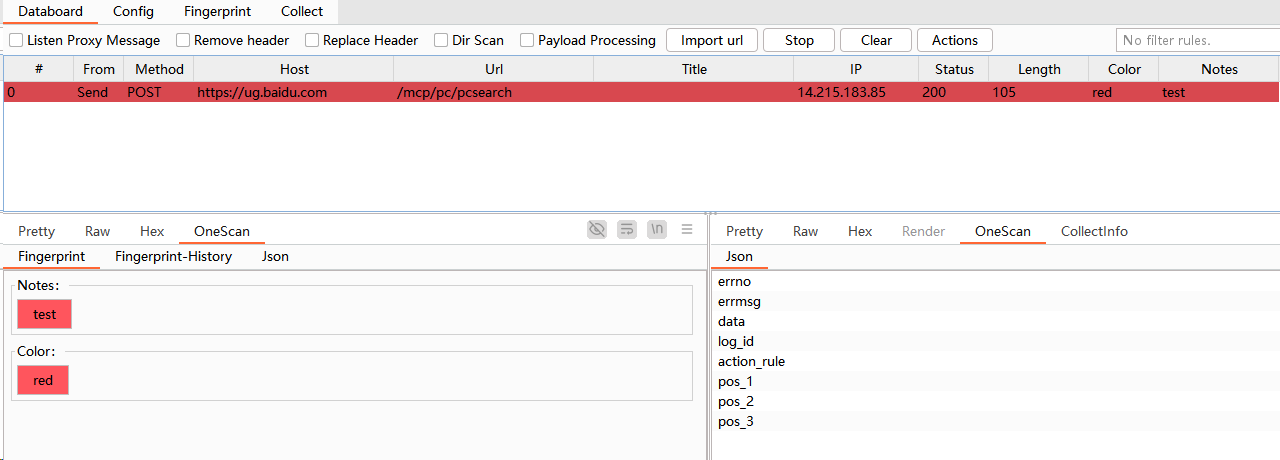
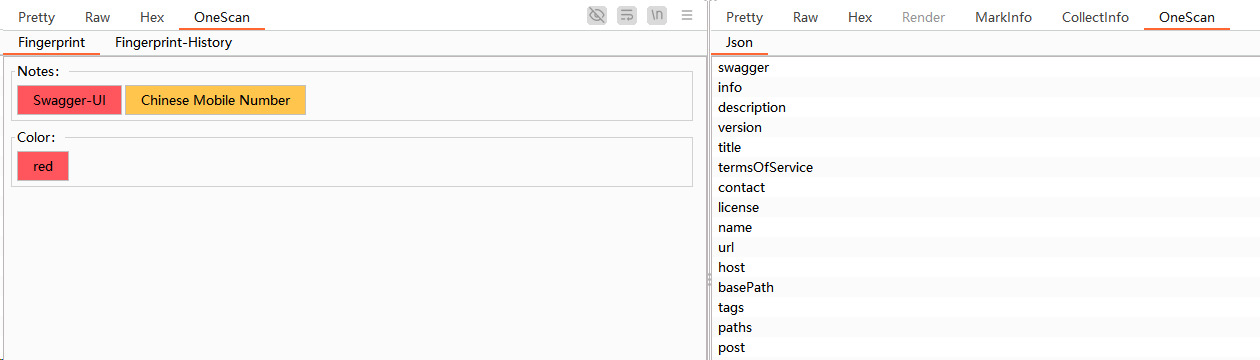
更新项目说明文档，更新插件截图

Changed region(s): [[0.0, 0.0, 1.0, 1.0]]

diff --git a/README.md b/README.md
@@ -56,7 +56,7 @@ Extensions -> Installed -> Add -> Select File -> Next
 
 ![](imgs/install_success.png)
 
-插件配置文件默认存放路径如下（优先检测当前插件 JAR 包所在目录下是否存在 `OneScan` 目录，如果存在，将使用该目录作为工作目录；否则，使用如下路径作为工作目录）：
+插件配置文件默认存放路径如下（优先检测当前插件 `jar` 包所在目录下是否存在 `OneScan` 目录，如果存在，将使用该目录作为工作目录；否则，使用如下路径作为工作目录）：
 
 ```text
 linux、macOS：
@@ -80,9 +80,13 @@ C:\Users\<用户名>\.config\OneScan\
 
 ### 辅助面板
 
-提取请求和响应包中 **JSON** 格式的字段，插件 `1.0.0` 版本新增 `Fingerprint` 指纹信息展示
+提取请求和响应包中 **JSON** 格式的字段（插件 `1.0.0` 版本新增 `Fingerprint` 指纹信息展示）
 
 ![](imgs/onescan_info.png)
+
+- `Fingerprint` 当前请求、响应包识别的指纹信息
+- `Fingerprint-History` 当前 Host 的所有历史指纹信息
+- `Json` 当前数据包的所有 `JSON` 字段
 
 ### 动态变量
 
